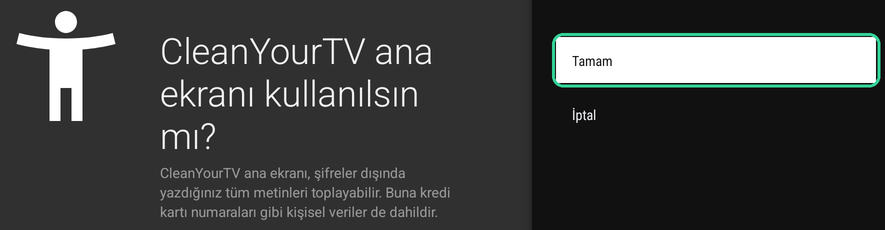
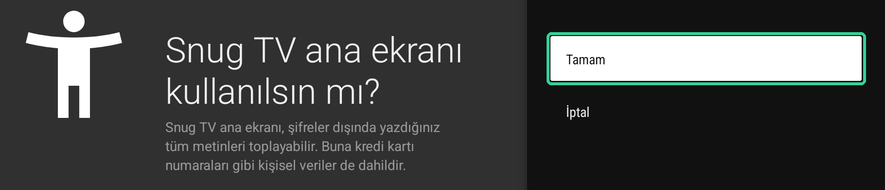
Install page: Snug TV 3.5-umut.3, new name and screenshots
Claude-Session: https://claude.ai/code/session_013kiHq7BkQWNGxuDMYinTcw

diff --git a/index.html b/index.html
@@ -3,8 +3,8 @@
 <head>
 <meta charset="utf-8">
 <meta name="viewport" content="width=device-width, initial-scale=1">
-<title>CleanYourTV'yi indir ve kur</title>
-<meta name="description" content="CleanYourTV: Android TV ve Google TV için reklamsız, sade ana ekran. ADB gerekmez. İndir ve adım adım kur.">
+<title>Snug TV'yi indir ve kur</title>
+<meta name="description" content="Snug TV: Android TV ve Google TV için reklamsız, sade ana ekran. CleanYourTV'nin gayriresmi fork'u. İndir ve adım adım kur.">
 <link rel="icon" href="logo.png">
 <style>
 :root { --ink:#15181E; --muted:#596270; --accent:#0E7C59; --accent-ink:#FFFFFF; --mark:#34D399; --bg:#F6F7F5; --card:#FFFFFF; --line:#E3E6E1; --soft:#ECEFEA; --warn:#F6B935; }
@@ -53,16 +53,16 @@ a { color:var(--accent); }
 <body>
 <main>
 <header>
-  <img src="logo.png" width="64" height="64" alt="CleanYourTV logosu: zümrüt ekranlı antenli televizyon">
+  <img src="logo.png" width="64" height="64" alt="Snug TV logosu: zümrüt ekranlı antenli televizyon">
   <div>
-    <h1>CleanYourTV'yi indir</h1>
-    <p class="sub">Android TV ve Google TV için reklamsız, sade ana ekran.</p>
+    <h1>Snug TV'yi indir</h1>
+    <p class="sub">Android TV ve Google TV için reklamsız, sade ana ekran. CleanYourTV'nin gayriresmi fork'u.</p>
   </div>
 </header>
 
 <section class="hero" aria-live="polite">
   <p id="detected">Tek dosya, her Android TV ve Google TV için:</p>
-  <a id="dl" class="dl" href="https://github.com/umutluprens/cleanyourtv/releases/download/v3.5-umut.2/cleanyourtv-3.5-umut.2.apk">APK'yı indir</a>
+  <a id="dl" class="dl" href="https://github.com/umutluprens/cleanyourtv/releases/download/v3.5-umut.3/snug-tv-3.5-umut.3.apk">APK'yı indir</a>
   <p id="meta" class="meta"></p>
   <p class="url">TV'de Downloader uygulamasına bu adresi yaz:<br><code id="short"></code></p>
 </section>
@@ -80,23 +80,23 @@ a { color:var(--accent); }
     <figure><img src="img/downloader-adres.png" width="800" height="247" alt="Downloader'da adres kutusu: umutluprens.github.io/cleanyourtv/apk yazılı"><figcaption>Downloader'da adresi yazıp Load'a bas.</figcaption></figure></li>
   <li><b>Bilinmeyen kaynaklara izin ver.</b> TV, dosyayı açan uygulama için izin ister. <b>Ayarlar</b>'a bas ve o uygulamanın düğmesini aç, sonra geri dön.
     <span class="small">Elle açmak için: Ayarlar › Gizlilik › Güvenlik ve kısıtlamalar › Bilinmeyen kaynaklar.</span>
-    <figure><img src="img/bilinmeyen.png" width="507" height="440" alt="Bilinmeyen uygulamaları yükle ekranı: Downloader satırının düğmesi işaretli"><figcaption>Bu listede CleanYourTV değil, APK dosyasını açan uygulama görünür (burada Downloader). İzni ona veriyorsun.</figcaption></figure></li>
-  <li><b>Yükle</b>'ye bas. Bitince <b>Bitti</b>'ye bas.
-    <figure><img src="img/yukle.png" width="661" height="277" alt="Kurulum penceresi: CleanYourTV, Bu uygulamayı yüklemek istiyor musunuz, Yükle düğmesi işaretli"></figure></li>
+    <figure><img src="img/bilinmeyen.png" width="507" height="440" alt="Bilinmeyen uygulamaları yükle ekranı: Downloader satırının düğmesi işaretli"><figcaption>Bu listede Snug TV değil, APK dosyasını açan uygulama görünür (burada Downloader). İzni ona veriyorsun.</figcaption></figure></li>
+  <li>Kurulum penceresinde imleç önce <b>İptal</b>'dedir. Kumandada bir kez <b>sola</b> bas, <b>Yükle</b>'yi seç ve bas. Bitince <b>Bitti</b>'ye bas.
+    <figure><img src="img/yukle.png" width="662" height="277" alt="Kurulum penceresi: Snug TV, Bu uygulamayı yüklemek istiyor musunuz, Yükle düğmesi işaretli"></figure></li>
 
-  <li><b>CleanYourTV'yi ana ekran yap.</b> Kumandada <b>Home</b>'a bas.
+  <li><b>Snug TV'yi ana ekran yap.</b> Kumandada <b>Home</b>'a bas.
     <ul>
-      <li><b>Hangi ana ekranın kullanılacağını sorarsa</b> (çoğu Android TV): <b>CleanYourTV</b>'yi seç ve <b>Her zaman</b>'a bas. Bu kadar.</li>
-      <li><b>Sormazsa</b> (Google TV): <b>Ayarlar › Sistem › Erişilebilirlik</b>'e gir, en alttaki <b>Hizmetler</b> bölümünde <b>CleanYourTV ana ekranı</b>'na gir.</li>
+      <li><b>Hangi ana ekranın kullanılacağını sorarsa</b> (çoğu Android TV): <b>Snug TV</b>'yi seç ve <b>Her zaman</b>'a bas. Bu kadar.</li>
+      <li><b>Sormazsa</b> (Google TV): <b>Ayarlar › Sistem › Erişilebilirlik</b>'e gir, en alttaki <b>Hizmetler</b> bölümünde <b>Snug TV ana ekranı</b>'na gir.</li>
     </ul>
-    <figure><img src="img/erisilebilirlik.png" width="506" height="126" alt="Erişilebilirlik, Hizmetler bölümü: CleanYourTV ana ekranı satırı işaretli, durumu Kapalı"></figure>
+    <figure><img src="img/erisilebilirlik.png" width="510" height="125" alt="Erişilebilirlik, Hizmetler bölümü: Snug TV ana ekranı satırı işaretli, durumu Kapalı"></figure>
     <p><b>Etkinleştir</b>'i aç.</p>
-    <figure><img src="img/etkinlestir.png" width="507" height="313" alt="CleanYourTV ana ekranı sayfası: Etkinleştir düğmesi işaretli"></figure>
+    <figure><img src="img/etkinlestir.png" width="510" height="273" alt="Snug TV ana ekranı sayfası: Etkinleştir düğmesi işaretli"></figure>
     <p>Çıkan pencerede <b>Tamam</b>'a bas.</p>
-    <figure><img src="img/tamam.png" width="885" height="230" alt="CleanYourTV ana ekranı kullanılsın mı penceresi: Tamam işaretli"><figcaption>Bu, her erişilebilirlik yardımcısında çıkan standart uyarıdır. CleanYourTV yalnızca Home tuşunu izler, internete bağlanmaz.</figcaption></figure>
-    <p class="note warn">Listede bir de <b>CleanYourTV giriş tuşu</b> var. O başka bir yardımcıdır, ana ekran için onu <b>açma</b>.</p></li>
+    <figure><img src="img/tamam.png" width="885" height="190" alt="Snug TV ana ekranı kullanılsın mı penceresi: Tamam işaretli"><figcaption>Bu, her erişilebilirlik yardımcısında çıkan standart uyarıdır. Snug TV yalnızca Home tuşunu izler, internete bağlanmaz.</figcaption></figure>
+    <p class="note warn">Listede bir de <b>Snug TV giriş tuşu</b> var. O başka bir yardımcıdır, ana ekran için onu <b>açma</b>.</p></li>
 
-  <li><b>Home'a bas.</b> CleanYourTV gelmeli. Google TV'de önce kendi ekranı bir an görünür, sonra CleanYourTV gelir; bu kısa geçiş normaldir.</li>
+  <li><b>Home'a bas.</b> Snug TV gelmeli. Google TV'de önce kendi ekranı bir an görünür, sonra Snug TV gelir; bu kısa geçiş normaldir.</li>
 </ol>
 
 <h2>Google TV'de kurulum olmazsa</h2>
@@ -105,20 +105,21 @@ a { color:var(--accent); }
   <li><b>Play Protect</b> “Uygulama, cihazınızı korumak için engellendi” deyip kurulumu durdurabilir.</li>
   <li>Kurulsa bile <b>Etkinleştir</b> düğmesi açılıp hemen kendiliğinden kapanabilir (Android'in “kısıtlanmış ayar” kuralı). Google TV menülerinde bunu açacak bir seçenek yok.</li>
 </ul>
-<p class="note">Bu durumda CleanYourTV'yi bir bilgisayardan ADB ile kurmak gerekir: <a href="https://github.com/Gathin23/cleanyourtv">CleanYourTV'nin kendi kurulum rehberi</a>. Klasik Android TV'ler (Mi Box, Sony, Philips gibi) bu kurallardan etkilenmez.</p>
+<p class="note">Bu durumda Snug TV'yi bir bilgisayardan ADB ile kurmak gerekir (<code>adb install snug-tv-3.5-umut.3.apk</code>). Dosyadan kurulduysa ve <b>Etkinleştir</b> kapanıyorsa, bilgisayardan şu komut düğmeyi açılır hale getirir: <code>adb shell appops set io.github.umutluprens.tvhome ACCESS_RESTRICTED_SETTINGS allow</code>. ADB bağlantısını kurmak için <a href="https://github.com/Gathin23/cleanyourtv">CleanYourTV'nin rehberindeki</a> adımlar işe yarar. Klasik Android TV'ler (Mi Box, Sony, Philips gibi) bu kurallardan etkilenmez.</p>
 
 <h2>Bilmen gerekenler</h2>
 <ul>
   <li>Ana ekranın görünümü değişir, reklam ve öneri satırları gider. Uygulamalarına, Cast'e ve kumandaya dokunulmaz.</li>
-  <li>Sesli arama çalışır. “YouTube'da … aç” gibi isteklerin sonuçları Google TV'nin kendi ekranında açılır. Home'a basınca CleanYourTV'ye dönersin.</li>
+  <li>Sesli arama çalışır. “YouTube'da … aç” gibi isteklerin sonuçları Google TV'nin kendi ekranında açılır. Home'a basınca Snug TV'ye dönersin.</li>
   <li>TV'yi tek başına hızlandırmaz. Stok ana ekran arka planda çalışmaya devam eder. Gerçek hızlanma için gereksiz uygulamaları bilgisayardan kapatmak gerekir.</li>
   <li>Bazı TV'ler üçüncü parti ana ekranı kabul etmez (ör. bazı Çin pazarı TCL yazılımları).</li>
+  <li>Daha önce <b>CleanYourTV</b> adıyla (3.5-umut.2) kurduysan: Snug TV yeni bir uygulama olarak kurulur. Önce Erişilebilirlik'te <b>CleanYourTV ana ekranı</b>'nı kapat, sonra eski uygulamayı kaldır. Kutu sıralaması bir kez sıfırlanır.</li>
 </ul>
 
 <h2>Geri alma</h2>
 <ol class="steps">
-  <li>Google TV'de <b>Ayarlar › Sistem › Erişilebilirlik › CleanYourTV ana ekranı</b>'nı kapat. Android TV'de <b>Ayarlar › Uygulamalar › Varsayılan uygulamalar › Ana ekran uygulaması</b>'ndan eski ana ekranı seç.</li>
-  <li><b>Ayarlar › Uygulamalar › CleanYourTV › Kaldır.</b> Home tuşu hemen eski ana ekrana döner.</li>
+  <li>Google TV'de <b>Ayarlar › Sistem › Erişilebilirlik › Snug TV ana ekranı</b>'nı kapat. Android TV'de <b>Ayarlar › Uygulamalar › Varsayılan uygulamalar › Ana ekran uygulaması</b>'ndan eski ana ekranı seç.</li>
+  <li><b>Ayarlar › Uygulamalar › Snug TV › Kaldır.</b> Home tuşu hemen eski ana ekrana döner.</li>
 </ol>
 
 <details>
@@ -129,20 +130,20 @@ a { color:var(--accent); }
 </details>
 
 <footer>
-  <p><a id="release" href="https://github.com/umutluprens/cleanyourtv/releases/tag/v3.5-umut.2">Sürüm notları</a> · <a href="https://github.com/umutluprens/cleanyourtv/blob/apk-paketi/docs/KURULUM-TR.md">Ayrıntılı rehber</a> · <a href="https://github.com/umutluprens/cleanyourtv/issues">Sorun bildir</a></p>
-  <p>CleanYourTV, Gathin ve katkıcıları tarafından geliştirilen açık kaynak bir ana ekrandır (MIT lisansı). Bu sayfadaki hazır APK, umutluprens'in fork'undan derlenmiştir.<br>
-  Görseller Google TV Streamer'dan alınmıştır, senin TV'nde küçük farklarla görünebilir. Google TV ve Android TV, Google LLC'nin ticari markalarıdır. CleanYourTV, Google ile bağlantılı değildir.</p>
+  <p><a id="release" href="https://github.com/umutluprens/cleanyourtv/releases/tag/v3.5-umut.3">Sürüm notları</a> · <a href="https://github.com/umutluprens/cleanyourtv/blob/apk-paketi/docs/KURULUM-TR.md">Ayrıntılı rehber</a> · <a href="https://github.com/umutluprens/cleanyourtv/issues">Sorun bildir</a></p>
+  <p>Snug TV, <a href="https://github.com/Gathin23/cleanyourtv">CleanYourTV</a>'nin gayriresmi bir fork'udur. CleanYourTV, Gathin ve katkıcıları tarafından geliştirilen açık kaynak bir ana ekrandır (MIT lisansı). Snug TV'yi CleanYourTV projesi yapmaz ve desteklemez. Sorunları bu fork'a bildir.<br>
+  Görseller Google TV Streamer'dan alınmıştır, senin TV'nde küçük farklarla görünebilir. Google TV ve Android TV, Google LLC'nin ticari markalarıdır. Snug TV, Google ile bağlantılı değildir.</p>
 </footer>
 </main>
 
 <script>
 // The only place to change on a new release.
 var REL = {
-  version: "3.5-umut.2",
+  version: "3.5-umut.3",
   size: "594 KB",
-  url: "https://github.com/umutluprens/cleanyourtv/releases/download/v3.5-umut.2/cleanyourtv-3.5-umut.2.apk",
-  page: "https://github.com/umutluprens/cleanyourtv/releases/tag/v3.5-umut.2",
[1 lines of base64/hex data omitted]
+  url: "https://github.com/umutluprens/cleanyourtv/releases/download/v3.5-umut.3/snug-tv-3.5-umut.3.apk",
+  page: "https://github.com/umutluprens/cleanyourtv/releases/tag/v3.5-umut.3",
[1 lines of base64/hex data omitted]
   short: "umutluprens.github.io/cleanyourtv/apk"
 };
 document.getElementById("dl").href = REL.url;

diff --git a/apk/index.html b/apk/index.html
@@ -3,11 +3,11 @@
 <head>
 <meta charset="utf-8">
 <meta name="viewport" content="width=device-width, initial-scale=1">
-<title>CleanYourTV APK indiriliyor</title>
-<meta http-equiv="refresh" content="0; url=https://github.com/umutluprens/cleanyourtv/releases/download/v3.5-umut.2/cleanyourtv-3.5-umut.2.apk">
+<title>Snug TV APK indiriliyor</title>
+<meta http-equiv="refresh" content="0; url=https://github.com/umutluprens/cleanyourtv/releases/download/v3.5-umut.3/snug-tv-3.5-umut.3.apk">
 </head>
 <body style="font:18px/1.6 sans-serif;padding:24px">
-<p>CleanYourTV indiriliyor. Başlamazsa <a href="https://github.com/umutluprens/cleanyourtv/releases/download/v3.5-umut.2/cleanyourtv-3.5-umut.2.apk">buraya tıkla</a>.</p>
+<p>Snug TV indiriliyor. Başlamazsa <a href="https://github.com/umutluprens/cleanyourtv/releases/download/v3.5-umut.3/snug-tv-3.5-umut.3.apk">buraya tıkla</a>.</p>
 <p><a href="../">Kurulum adımları</a></p>
 </body>
 </html>
